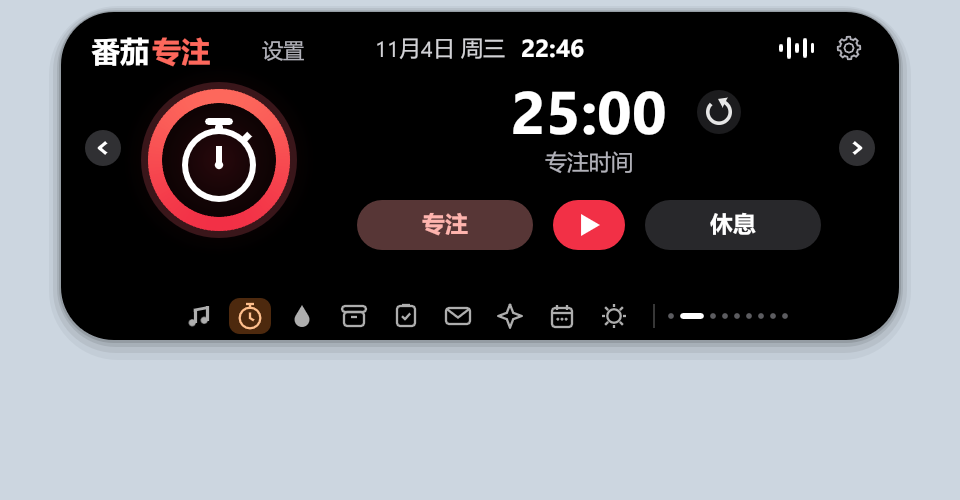
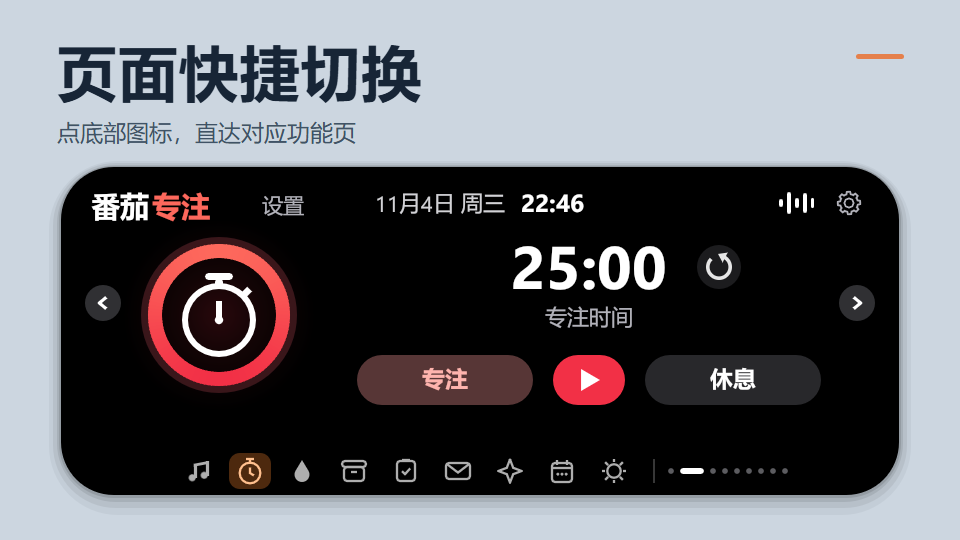
为页面快捷切换准备预览版

diff --git a/plugins/daozai.page-shortcuts/README.md b/plugins/daozai.page-shortcuts/README.md
@@ -1,5 +1,5 @@
-# 快捷切换
+# 页面快捷切换
 
 展开岛仔后，点击底部导航图标直达已开启的功能页。导航沿用「页面管理」里的顺序，当前页使用对应功能的图标和底色。
 
-安装后，在「设置 → 插件 → 已安装」启用快捷切换。停用或卸载后，岛仔恢复页码点导航。插件可离线使用。
+安装后，在「设置 → 插件 → 已安装」启用「页面快捷切换」。停用或卸载后，岛仔恢复页码点导航。插件可离线使用。
